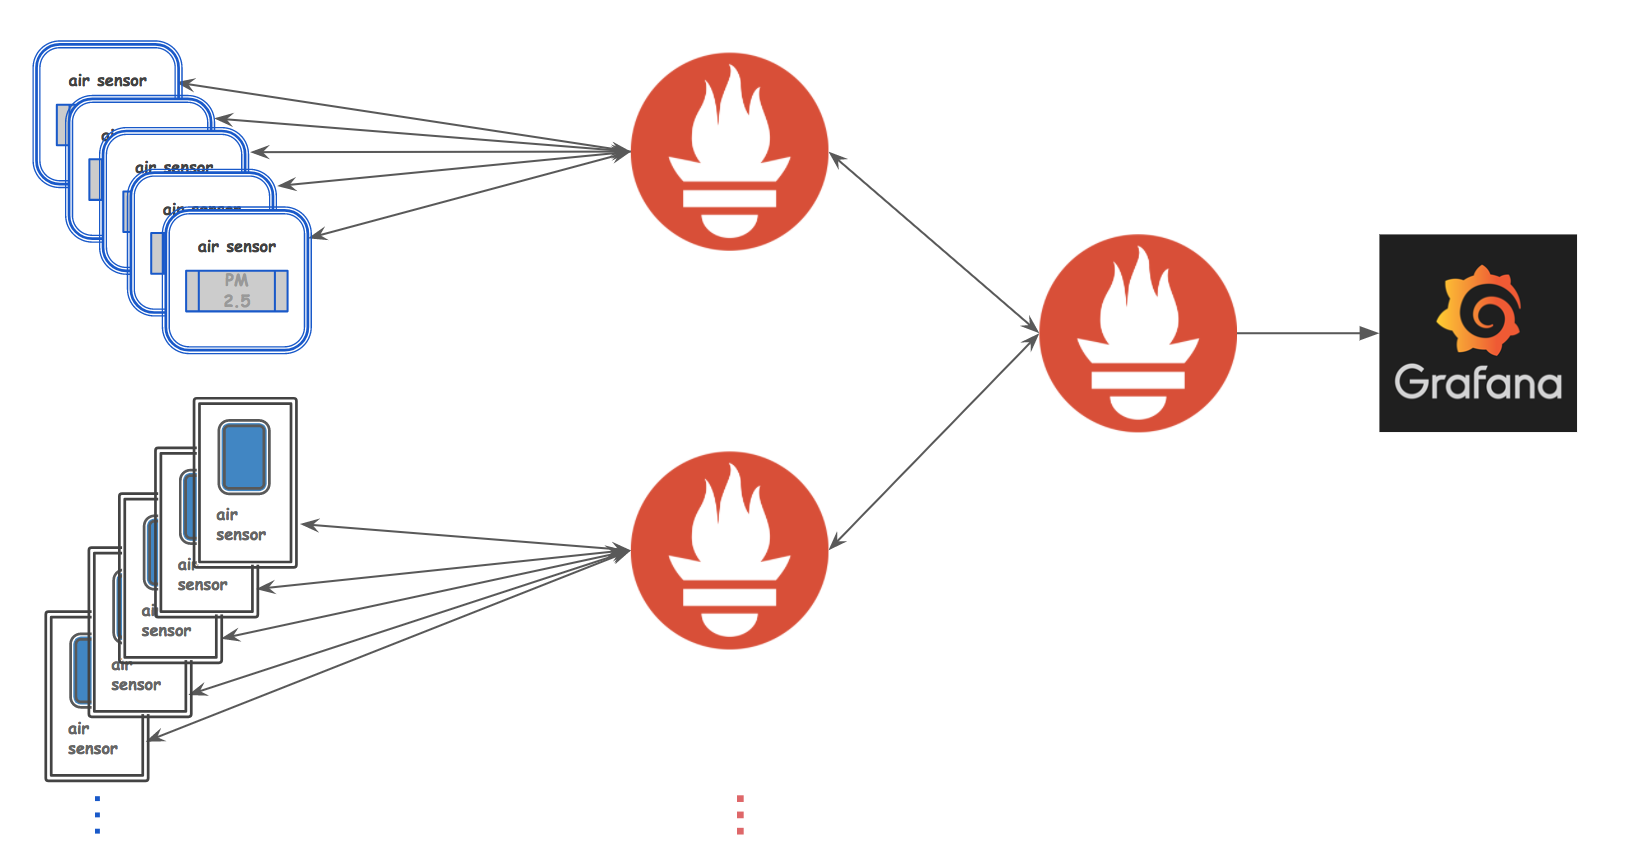
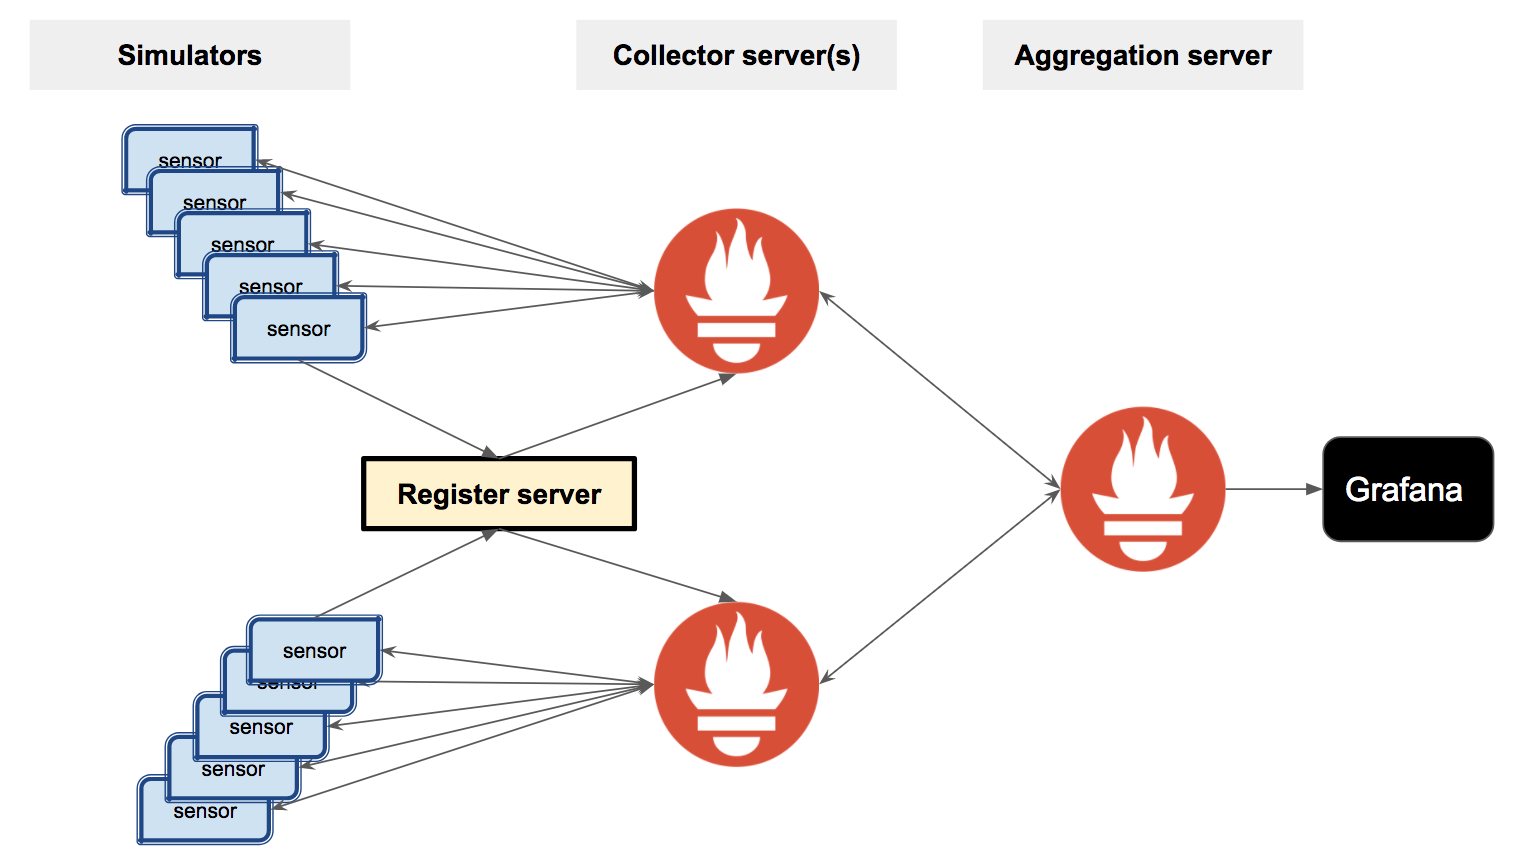
reorganized directories

diff --git a/README.md b/README.md
@@ -1,6 +1,6 @@
 # AirQ - monitoring air quality in real time.
 
-Air pollution can be serious issue in some areas or critical time periods. The goal of my project is to build a platform to connect air quality sensors, collect data, and monitor the air quality in real time. The techonoly I chose to explore is [Prometheus](https://prometheus.io), which is a monitor system and time series database. 
+Air pollution is a serious issue in some areas in many places around the world, or at critical time periods. The goal of my project is to build a platform to connect simulated air quality sensors, collect sensor data, and monitor the air quality in real time. The technology I chose to explore is [Prometheus](https://prometheus.io), which is a monitor system and time series database.
 
 * [Presentation Slides](https://docs.google.com/presentation/d/1CZ3yTWvKGmZ99p0HzRzDFpIKr_uWzRXe25seC-otXlw/edit?usp=sharing)
 
@@ -8,105 +8,91 @@ Air pollution can be serious issue in some areas or critical time periods. The g
 
 ## Design
 
-Sensor data are simulated and exposed to the Prometheus server via http endpoints using prometheus-cpp client library. The Prometheus server pulls all the metric data for every sensor periodically. As the number of sensors increases, more Prometheus servers with recording rules can be set up to scrape different targets. A global Prometheus server then can collect the aggregated data from sub-level servers. The data visualization is done through Grafana. 
+Sensor applications produce simulated data, and expose those data to the Prometheus server (__collector server__) via http endpoints using prometheus-cpp client library. The Prometheus server periodically pulls all sensor metrics from each sensor. As the number of sensors increases, more Prometheus servers (__collector servers__) may be added, where each server will scrape a subset of the  targets. A global Prometheus server (__aggregation server__) then collects the aggregated data from these collector servers. Data visualization is handled by Grafana.
 
 <p align="center">
 <img src="./images/system.png" width="800">
 </p>
 
-### Data flow for one producer and one Prometheus server
+### Data flow in detail
 
-1. A producer is set up to generate multiple http servers which simulate the endpoits of sensor devices, and send target (sensor) information to an intermediate server between producer and Prometheus server.
-2. An intermediate server (now on the same node as the Prometheus server) is set up to receive target information, and generate a JSON file that contains the information of sensors.
-3. Prometheus server takes JSON files, and scrape targets with a specified interval (e.g. 10s)
-4. A Grafana server is set up to display data from Prometheus.
+1. A producer is setup to generate multiple http servers which simulate the endpoints of sensor devices, and send target (sensor) information to a register server between the producer and collector server.
+2. The register server (now on the same node as the collector server) is set up to receive target information, and generate a JSON file that contains the information of sensors.
+3. The collector server takes JSON files, and scrape targets with a specified interval (e.g. 10s).
+4. A Grafana server is set up to display data from collector/aggregation server(s).
 
-<p align="center">
-<img src="./images/data_flow.png" width="800">
-</p>
 
 ### Data format
-1. Metric data exposed to Prometheus
+1. Metric data exposed to a collector server
 
-`metric_name{key_1=value_1,key_2=value_2, ...} number`
+   `metric_name{key_1=value_1,key_2=value_2, ...} number`
 
-2. Scraping targets in JSON file of Prometheus
+2. Scraping targets in JSON file of a collector server
 
-For example, `{"labels": {"job": "job_name"}, "targets": ["URL:port_number"]}`
+   For example, `{"labels": {"job": "job_name"}, "targets": ["URL:port_number"]}`
 
 3. Recording rules in PromQL
 
-For example, `avg(metric_name) by (key_1)`
+   For example, `avg(metric_name) by (key_1)`
 
 
 ## Dependence
 This program requires:
-* [Prometheus](https://prometheus.io) - a monitor system and time series database
-* A C++ comiplier that supports the C++11 standard. This application has been tested with Apple Clang version 8.1.0, and GCC versions 6.3.0.
-* [prometheus-cpp](https://github.com/jupp0r/prometheus-cpp) - Prometheus client library in C++. The installation instruction is included in the `README` file under the _sensor_simulation_ directory.
-* [Protocol Buffers](https://github.com/google/protobuf) - Google's data interchange format. It is needed to compile prometheus-cpp. See the `README` file in _sensor_simulation_ directory for compilation and installation.
+* [Prometheus](https://prometheus.io) - a monitor system and time series database.
+* A C++ compiler that supports the C++11 standard. This application has been tested with Apple Clang version 8.1.0, and GCC versions 6.3.0.
+* [prometheus-cpp](https://github.com/jupp0r/prometheus-cpp) - Prometheus client library in C++. The installation instruction is included in the `README` file under the _airq_sensor_ directory.
+* [Protocol Buffers](https://github.com/google/protobuf) - Google's data interchange format. It is needed to compile prometheus-cpp. See the `README` file in _airq_sensor_ directory for compilation and installation.
 * [Grafana](https://grafana.com) - a platform for analytics and monitoring.
 
 ## Build
 
-### Set up Prometheus server 
+### Collector server 
 
-1. Download Prometheus
-
-```
-wget https://github.com/prometheus/prometheus/releases/download/v1.7.1/prometheus-1.7.1.linux-amd64.tar.gz
-tar xvfz prometheus-1.7.1.linux-amd64.tar.gz
-# rename prometheus source directory
-mv prometheus-1.7.1.linux-amd64.tar.gz prometheus
-```
-
-2. Copy everything in the _prometheus_setup_ direcoty into the _prometheus_ source directory
+See the instructions in the `README` file under the _servers_ directory.
 
 
-### Set up sensor data simulation
+### Sensor simulation (producer)
 
-1. Follow instructions in the `README` file under the _sensor_simulation_ directory to install prerequisites which include gcc-6, protobuf, prometheus-cpp, et al.
+1. Follow instructions in the `README` file under the _airq_sensor_ directory to install prerequisites which include gcc-6, protobuf, prometheus-cpp, et al.
 
-2. Build sensor_simulation following the __Build sensor_simulation__ section in in the `README` file in the _sensor_simulation_ directory.
+2. Build airq_sensor following the __Build airq_sensor__ section in in the `README` file in the _airq_sensor_ directory.
 
 ## Run
 
-### Sub-level Prometheus server
+1. Set up a __register server__ to receive target information
 
-1. Set up an intermediate server to receive target information
+   In the _prometheus_ source directory, run 
 
-In the _prometheus_ source directory, run 
+  ```
+  ./sensor_registry_server.py [targets.json] [port number = 8080]
+  ```
+  * For example, `./sensor_registry_servers.py targets.json`. Example of target JSON files can be found under _servers/example_json_.
 
-```
-./generate_prom_targets.py [targets.json] [port number = 8080]
-```
-For example, `./generate_prom_targets.py targets.json`. Example of target JSON files can be found under _prometheus_setup/example_json_.
+2. Send target infomation to the __register server__
 
-2. Send target infomation to the intermediate server
-
-Copy `generate_ports.sh` under the _sensor_simulation_ directory to the build directory of sensor_simulation, run
+   Copy `spawn_sensors.sh` under the _airq_sensor_ directory to the build directory of airq_sensor, run
 
 ```
-./generate_ports.sh [start of port number] [end of port number] [sensor label]
+./spawn_sensors.sh [start of port number] [end of port number] [sensor label]
 ```
-For example, `./generate_ports.sh 2000 20002 A`
+   * For example, `./spawn_sensors.sh 2000 20002 A`
 
 3. Modify the `sensor-server.yml` in the _prometheus_ source directoryto match the names of the JSON files that contain target information.
 
-4. Run the Prometheus server
+4. Start a __collector server(s)__
 
-In the _prometheus_ source directory, run
-
-```
-./run_prom.sh
-```
-
-### Global Prometheus server
-
-In _/prometheus/run_prom.sh_, change `config.file` parameter to `prometheus-servers.yml`, and run 
+   In the _prometheus_ source directory, run
 
 ```
-./run_prom.sh
+./run_servers.sh
+```
+
+5. Start a __aggregation server__
+
+   In _/prometheus/run_servers.sh_, change `config.file` parameter to `prometheus-servers.yml`, and run 
+
+```
+./run_servers.sh
 ```
 
 ## License

diff --git a/servers/README.md b/servers/README.md
@@ -1,0 +1,13 @@
+## Install Prometheus
+
+
+1. Download Prometheus
+
+```
+wget https://github.com/prometheus/prometheus/releases/download/v1.7.1/prometheus-1.7.1.linux-amd64.tar.gz
+tar xvfz prometheus-1.7.1.linux-amd64.tar.gz
+# rename prometheus source directory
+mv prometheus-1.7.1.linux-amd64.tar.gz prometheus
+```
+
+2. Copy everything in the _servers_ direcoty into the _prometheus_ source directory

diff --git a/airq_sensor/README.md b/airq_sensor/README.md
@@ -69,7 +69,7 @@ cd ../../build/prometheus-cpp
 make DESTDIR=../../install/prometheus-cpp/ install 
 ```
 
-### Build sensor_simulation 
+### Build airq_sensor
 ```
 # make a build directory for sensor_simulation, and changes `SOURCE_DIR`, `PROMETHEUS_CPP_DIR`, `PROMETHEUS_CPP_LIB`, `PROTOBUF_DIR`, and `PROTOBUF_LIBRARIES`, then run
 ./config_sensor_simulation.sh
